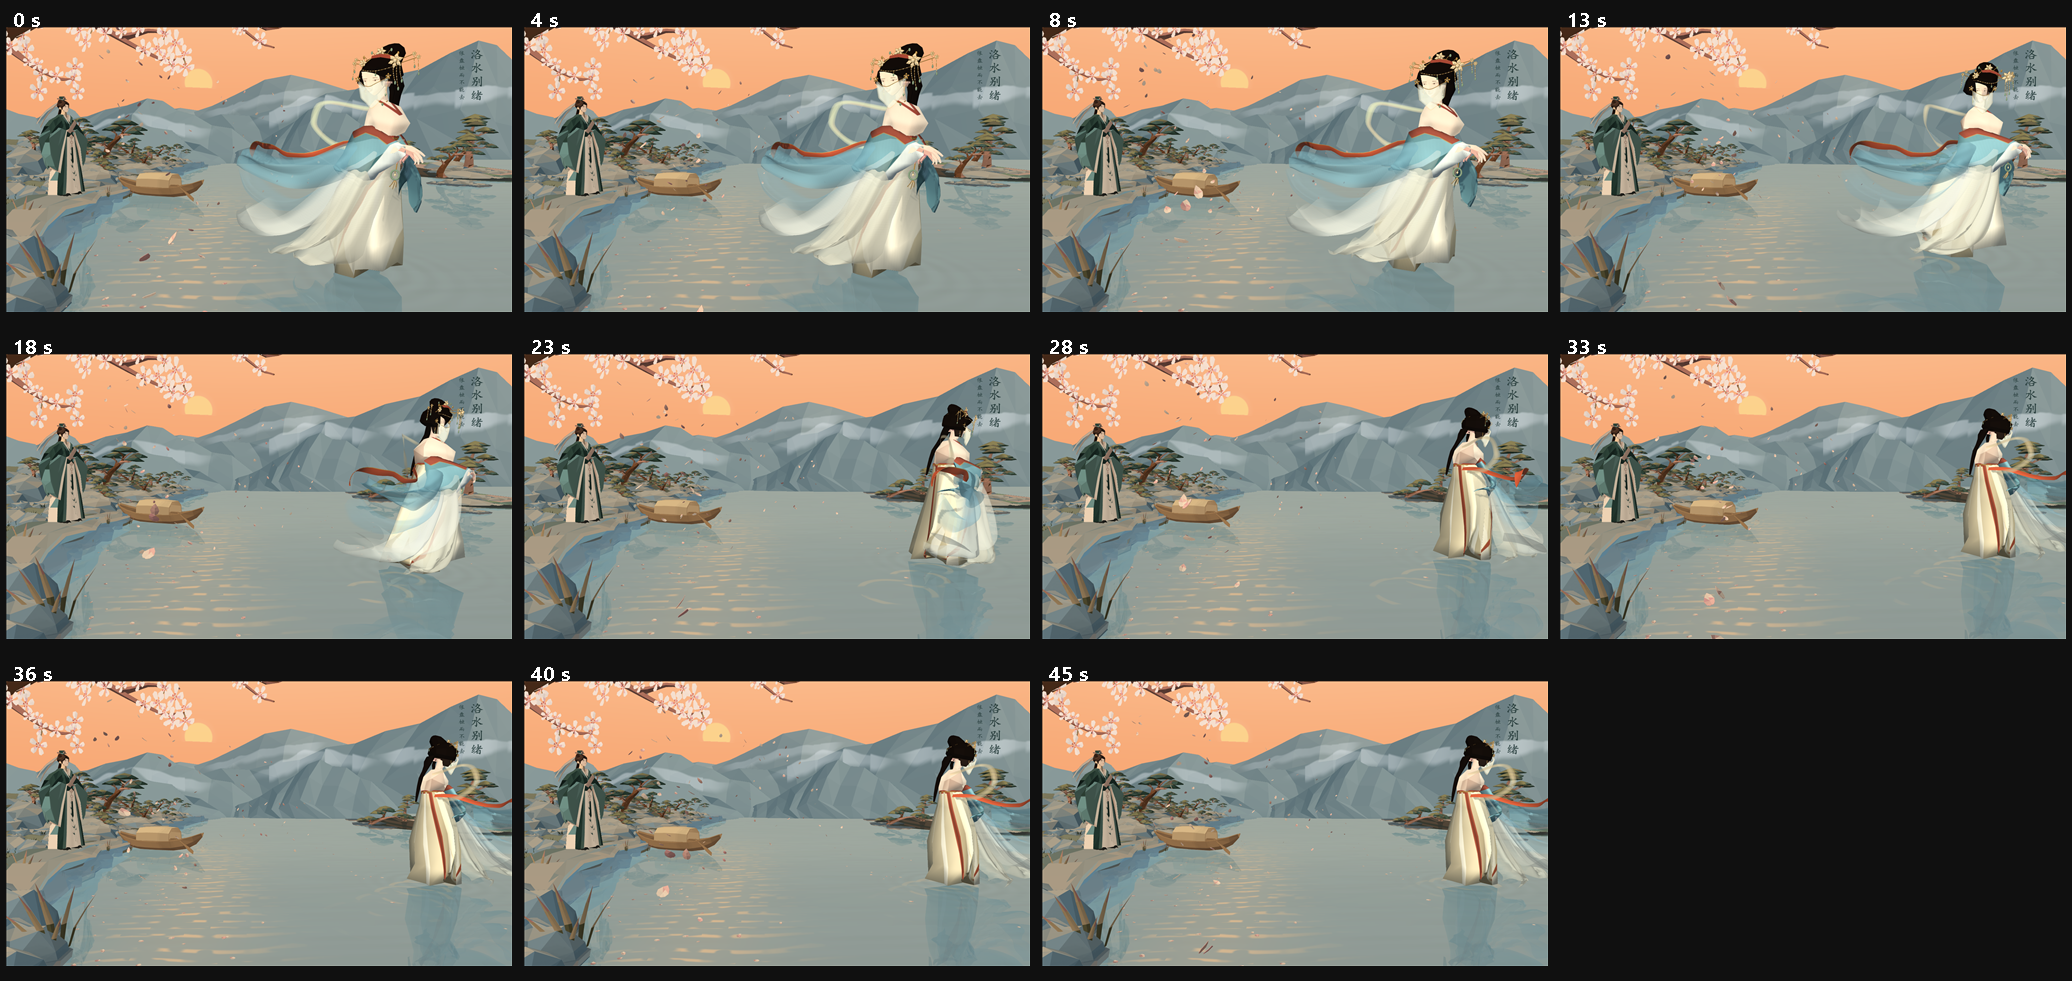
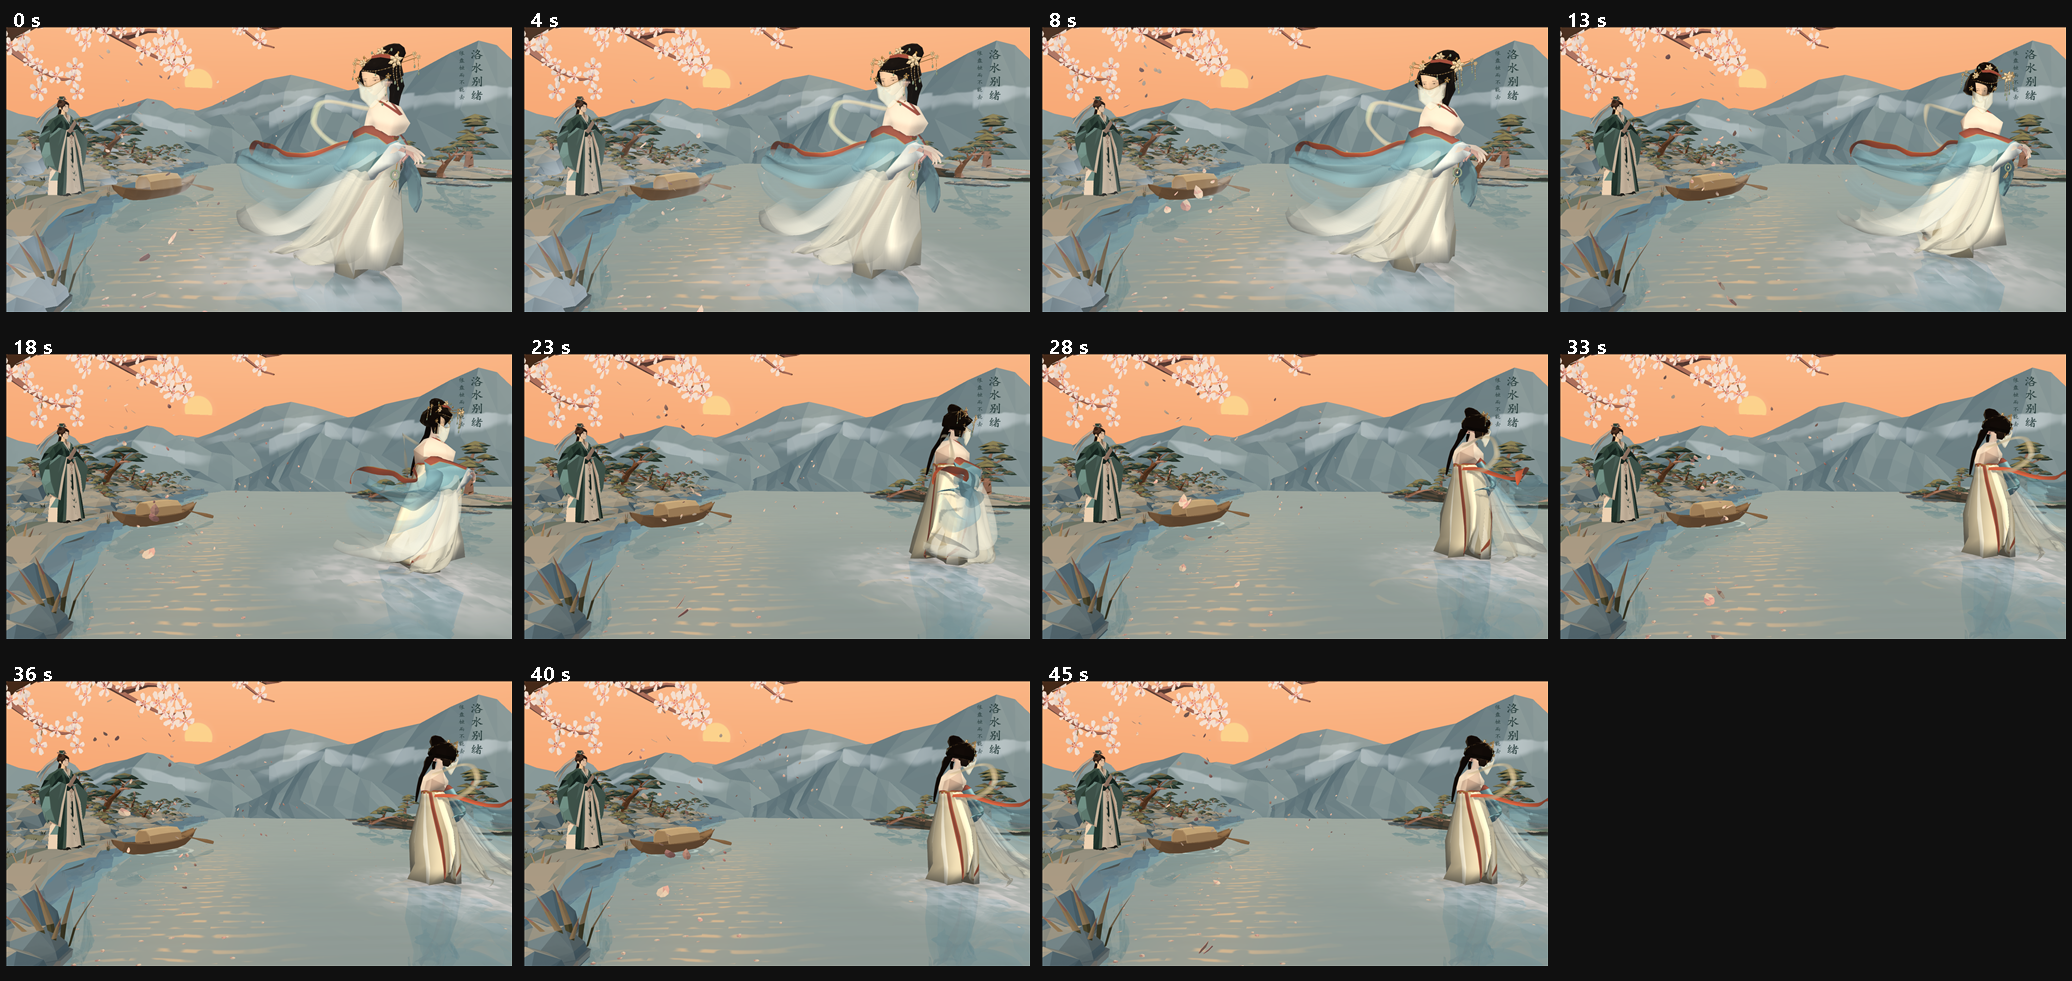
按当前 main 重渲染截图，并同步文档与截图入口命名

diff --git a/docs/narrative-animation.md b/docs/narrative-animation.md
@@ -83,7 +83,7 @@ offset = A * w(s) * [ D·sin(φ) + L·sin(0.61φ + 1.2) + U·sin(φ + 0.55) ]
 
 ## 4. 小舟微动
 
-小舟以当前泊位 `(-3.24, 0.025, -8.29)` 为基准，只做四个自由度的小幅运动：
+小舟以布局泊位 `(-2.97, 0.025, -8.12)` 为基准，只做四个自由度的小幅运动：
 
 ```text
 heave = 0.018 sin(0.72t) + 0.006 sin(0.33t)
@@ -92,7 +92,7 @@ pitch = 0.55° sin(0.81t)
 yaw   = 0.45° sin(0.47t)
 ```
 
-四个周期互不相同（8.7 s / 11.4 s / 7.8 s / 13.4 s），避免机械同步；`t=0` 时全部为 0，所以重置后与布局中的泊位完全一致。
+四个周期互不相同（8.7 s / 11.4 s / 7.8 s / 13.4 s），避免机械同步；`t=0` 时全部为 0，所以重置后与布局中的泊位完全一致。主程序另有约 110 秒的小舟慢航路线（`main.cpp`），本模块只在这条路线之上叠加上面四个自由度的小幅运动。
 
 按船体 1.89 万顶点逐帧计算：船底最低点在水面下最多约 `4.2 cm`、在水面上最多约 `3.6 cm`，相对 2.05 m 的船体高度不到 2%，视觉上保持“船底贴水”。横摇、纵摇的转动中心在船底中心，船身不会横向穿入左岸。
 
@@ -118,7 +118,7 @@ yaw   = 0.45° sin(0.47t)
 | `LuoshenScene.exe --capture-farewell` | 45 秒中 11 个时间点的分段截图，`captures/farewell/` |
 | `LuoshenScene.exe --capture-farewell-still` | 同一时间点、披帛静止的对照图，`captures/farewell-still/` |
 | `LuoshenScene.exe --capture-pibo` | 披帛近景 7 帧，`captures/pibo/` |
-| `LuoshenScene.exe --capture-boat` | 小舟近景 8 帧，`captures/boat/` |
+| `LuoshenScene.exe --capture-boat-closeup` | 小舟近景 8 帧，`captures/boat/` |
 | `LuoshenScene.exe --capture-farewell-video [帧数]` | 30 fps 连续帧，默认 1350 帧（45 秒），`captures/farewell-video/` |
 
 连续帧可用 ffmpeg 合成：

diff --git a/docs/角色与叙事动画实现与验收报告.md b/docs/角色与叙事动画实现与验收报告.md
@@ -192,7 +192,7 @@ updatePiboDeformation(luoshen, animationTime, wind);
 | `--capture-farewell` | 45 秒中 11 个时间点，`captures/farewell/` |
 | `--capture-farewell-still` | 同一时间点、披帛静止的对照，`captures/farewell-still/` |
 | `--capture-pibo` | 披帛近景 7 帧，`captures/pibo/` |
-| `--capture-boat` | 小舟近景 8 帧，`captures/boat/` |
+| `--capture-boat-closeup` | 小舟近景 8 帧，`captures/boat/` |
 | `--capture-farewell-video [帧数]` | 30 fps 连续帧，默认 1350 帧，`captures/farewell-video/` |
 
 ## 7. 45 秒演示分段说明
@@ -230,7 +230,7 @@ updatePiboDeformation(luoshen, animationTime, wind);
 cd .\场景工程_美术重制\bin
 .\LuoshenScene.exe --capture-farewell
 .\LuoshenScene.exe --capture-pibo
-.\LuoshenScene.exe --capture-boat
+.\LuoshenScene.exe --capture-boat-closeup
 .\LuoshenScene.exe --capture-farewell-video
 ```
 
